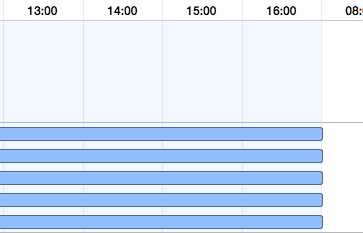
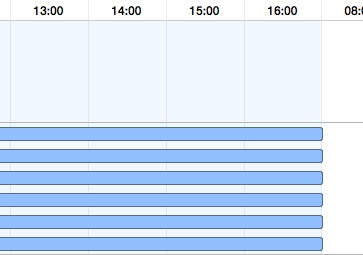
update

diff --git a/omni/task.html b/omni/task.html
@@ -131,7 +131,24 @@
             </tr>
             
             <tr class="taskTypeTask">
-                <td style="padding-left: 18px;" class="wrap">2) Graphs</td>
+                <td style="padding-left: 38px;" class="wrap">1.1.3) Graphs</td>
+                <td>2017-06-27, 08:00</td>
+                <td>2017-06-27, 17:00</td>
+                <td>1d</td>
+                <td>0%</td>
+                <td></td>
+                <td class="total"></td>
+                <td></td>
+                <td></td>
+                <td></td>
+                <td></td>
+                <td></td>
+                <td></td>
+                <td></td>
+            </tr>
+            
+            <tr class="taskTypeGroup">
+                <td style="padding-left: 18px;" class="wrap">2) iOSApp</td>
                 <td>2017-06-27, 08:00</td>
                 <td>2017-06-27, 17:00</td>
                 <td>1d</td>
@@ -148,7 +165,24 @@
             </tr>
             
             <tr class="taskTypeTask">
-                <td style="padding-left: 18px;" class="wrap">3) iOSApp</td>
+                <td style="padding-left: 28px;" class="wrap">2.1) MultiPage Manager</td>
+                <td>2017-06-27, 08:00</td>
+                <td>2017-06-27, 17:00</td>
+                <td>1d</td>
+                <td>0%</td>
+                <td></td>
+                <td class="total"></td>
+                <td></td>
+                <td></td>
+                <td></td>
+                <td></td>
+                <td></td>
+                <td></td>
+                <td></td>
+            </tr>
+            
+            <tr class="taskTypeGroup">
+                <td style="padding-left: 28px;" class="wrap">2.2) Google SSO integration </td>
                 <td>2017-06-27, 08:00</td>
                 <td>2017-06-27, 17:00</td>
                 <td>1d</td>
@@ -165,7 +199,24 @@
             </tr>
             
             <tr class="taskTypeTask">
-                <td style="padding-left: 18px;" class="wrap">4) BackEnd Design </td>
+                <td style="padding-left: 38px;" class="wrap">2.2.1) Maps Integration</td>
+                <td>2017-06-27, 08:00</td>
+                <td>2017-06-27, 17:00</td>
+                <td>1d</td>
+                <td>0%</td>
+                <td></td>
+                <td class="total"></td>
+                <td></td>
+                <td></td>
+                <td></td>
+                <td></td>
+                <td></td>
+                <td></td>
+                <td></td>
+            </tr>
+            
+            <tr class="taskTypeTask">
+                <td style="padding-left: 18px;" class="wrap">3) BackEnd Design </td>
                 <td>2017-06-27, 08:00</td>
                 <td>2017-06-27, 17:00</td>
                 <td>1d</td>

diff --git a/omni/eva.html b/omni/eva.html
@@ -132,7 +132,7 @@
 	</tr>
 		
 	<tr>
-		<td style="padding-left: 18px;" class="wrap">2) Graphs</td>
+		<td style="padding-left: 38px;" class="wrap">1.1.3) Graphs</td>
 		<td></td>
 		<td></td>
 		<td></td>
@@ -149,7 +149,7 @@
 	</tr>
 		
 	<tr>
-		<td style="padding-left: 18px;" class="wrap">3) iOSApp</td>
+		<td style="padding-left: 18px;" class="wrap">2) iOSApp</td>
 		<td></td>
 		<td></td>
 		<td></td>
@@ -166,7 +166,58 @@
 	</tr>
 		
 	<tr>
-		<td style="padding-left: 18px;" class="wrap">4) BackEnd Design </td>
+		<td style="padding-left: 28px;" class="wrap">2.1) MultiPage Manager</td>
+		<td></td>
+		<td></td>
+		<td></td>
+		<td></td>
+		<td></td>
+		<td></td>
+		<td></td>
+		<td></td>
+		<td></td>
+		<td></td>
+		<td></td>
+		<td></td>
+		<td></td>
+	</tr>
+		
+	<tr>
+		<td style="padding-left: 28px;" class="wrap">2.2) Google SSO integration </td>
+		<td></td>
+		<td></td>
+		<td></td>
+		<td></td>
+		<td></td>
+		<td></td>
+		<td></td>
+		<td></td>
+		<td></td>
+		<td></td>
+		<td></td>
+		<td></td>
+		<td></td>
+	</tr>
+		
+	<tr>
+		<td style="padding-left: 38px;" class="wrap">2.2.1) Maps Integration</td>
+		<td></td>
+		<td></td>
+		<td></td>
+		<td></td>
+		<td></td>
+		<td></td>
+		<td></td>
+		<td></td>
+		<td></td>
+		<td></td>
+		<td></td>
+		<td></td>
+		<td></td>
+	</tr>
+		
+	<tr>
+		<td style="padding-left: 18px;" class="wrap">3) BackEnd Design </td>
 		<td></td>
 		<td></td>
 		<td></td>

diff --git a/omni/gantt.html b/omni/gantt.html
@@ -30,8 +30,8 @@
 	<h1>t: Gantt Chart</h1>
 		<div class="tablewrap"><table border="0" cellspacing="0" cellpadding="0">
 <tr>
-	<td><img src="include/gantt0,0.jpg?nocacheTag=-1748976684" border=0/></td>
-	<td><img src="include/gantt1,0.jpg?nocacheTag=404662475" border=0/></td>
+	<td><img src="include/gantt0,0.jpg?nocacheTag=632003563" border=0/></td>
+	<td><img src="include/gantt1,0.jpg?nocacheTag=795609393" border=0/></td>
 </tr>
 </table>
 </div>
